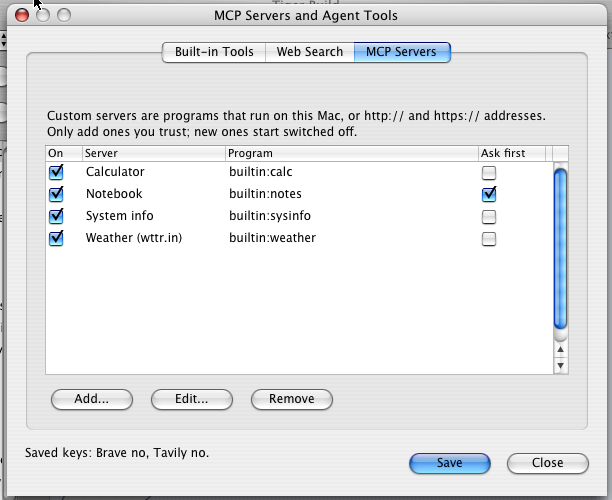
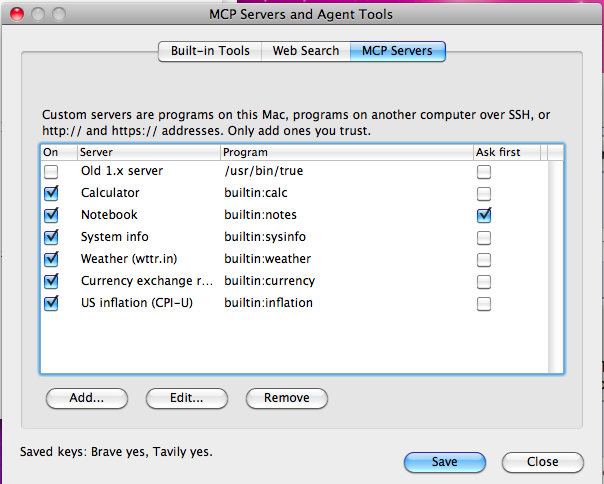
docs: retaken Commander, MCP servers and Tools menu screenshots, Appearance screenshot

diff --git a/README.md b/README.md
@@ -31,6 +31,10 @@ Tiger Build is licensed under the MIT License and comes with no warranty. See [`
 | --- | --- | --- |
 | ![Preferences, Commander tab](docs/screenshots/client-preferences-commander.png) | ![Preferences, Local LLM Server tab](docs/screenshots/client-preferences-llm.png) | ![MCP Servers tab](docs/screenshots/client-mcp-servers.png) |
 
+**Appearance** (Tiger Build menu) changes the chat, tool-call boxes, status text and interface, and the window look (brushed metal, gray, pinstripes, gradient or a solid colour), with a live sample on top:
+
+![Appearance, Interface tab](docs/screenshots/client-appearance.png)
+
 *Screenshots use example addresses, accounts and servers.*
 
 ## Contents
